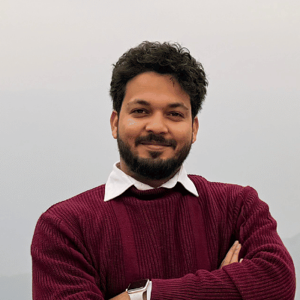
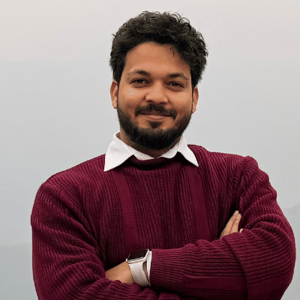
Update about page: re-crop photo, fix heading, add Allen Career Institute, remove Discord

diff --git a/about.html b/about.html
@@ -152,10 +152,10 @@
           <!-- Intro -->
           <div class="card reveal" style="margin-bottom: 32px;">
             <h3 style="font-family: var(--font-display); font-size: 1.3rem; margin-bottom: 16px; letter-spacing: 0.5px;">
-              Who is Physics for Noobs?
+              Who created Physics for Noobs?
             </h3>
             <p style="color: var(--text-secondary); line-height: 1.9; margin-bottom: 16px;">
-              <strong style="color: var(--text-primary);">Sankaracharya Dutta</strong> is a dedicated Physics educator
+              <strong style="color: var(--text-primary);">Sankaracharya Dutta (Axomiya-Engineer)</strong> is a dedicated Physics educator
               whose journey began in the vibrant lands of Assam &mdash; <em>Axomiya</em> meaning &ldquo;from Assam.&rdquo;
               An <strong style="color: var(--color-primary);">IIT Guwahati</strong> graduate (B.Tech in Civil Engineering, 2014-18)
               with a remarkable CBSE score of <strong style="color: var(--color-accent);">96% in PCM</strong>,
@@ -169,8 +169,7 @@
               that makes every concept click.
             </p>
             <p style="color: var(--text-secondary); line-height: 1.9;">
-              He teaches on the online platform Discord, with separate text channels for tests, doubts, submissions,
-              and subject-wise notes. Whether you&rsquo;re targeting Class 12 boards or competitive exams like
+              Whether you&rsquo;re targeting Class 12 boards or competitive exams like
               JEE and NEET, his organized and tailored approach to learning ensures every student gets personal attention.
             </p>
           </div>
@@ -206,6 +205,16 @@
           </h3>
 
           <div class="timeline reveal">
+            <div class="timeline-item">
+              <div class="tl-date">2025 &ndash; 2026</div>
+              <h3>Physics Faculty</h3>
+              <div class="tl-org">Allen Career Institute</div>
+              <p>
+                Teaching Physics to JEE and NEET aspirants at one of India's most prestigious
+                coaching institutes, shaping the next generation of engineers and doctors.
+              </p>
+            </div>
+
             <div class="timeline-item">
               <div class="tl-date">2022 &ndash; 2025</div>
               <h3>Project Lead &mdash; Integrated School Program</h3>
